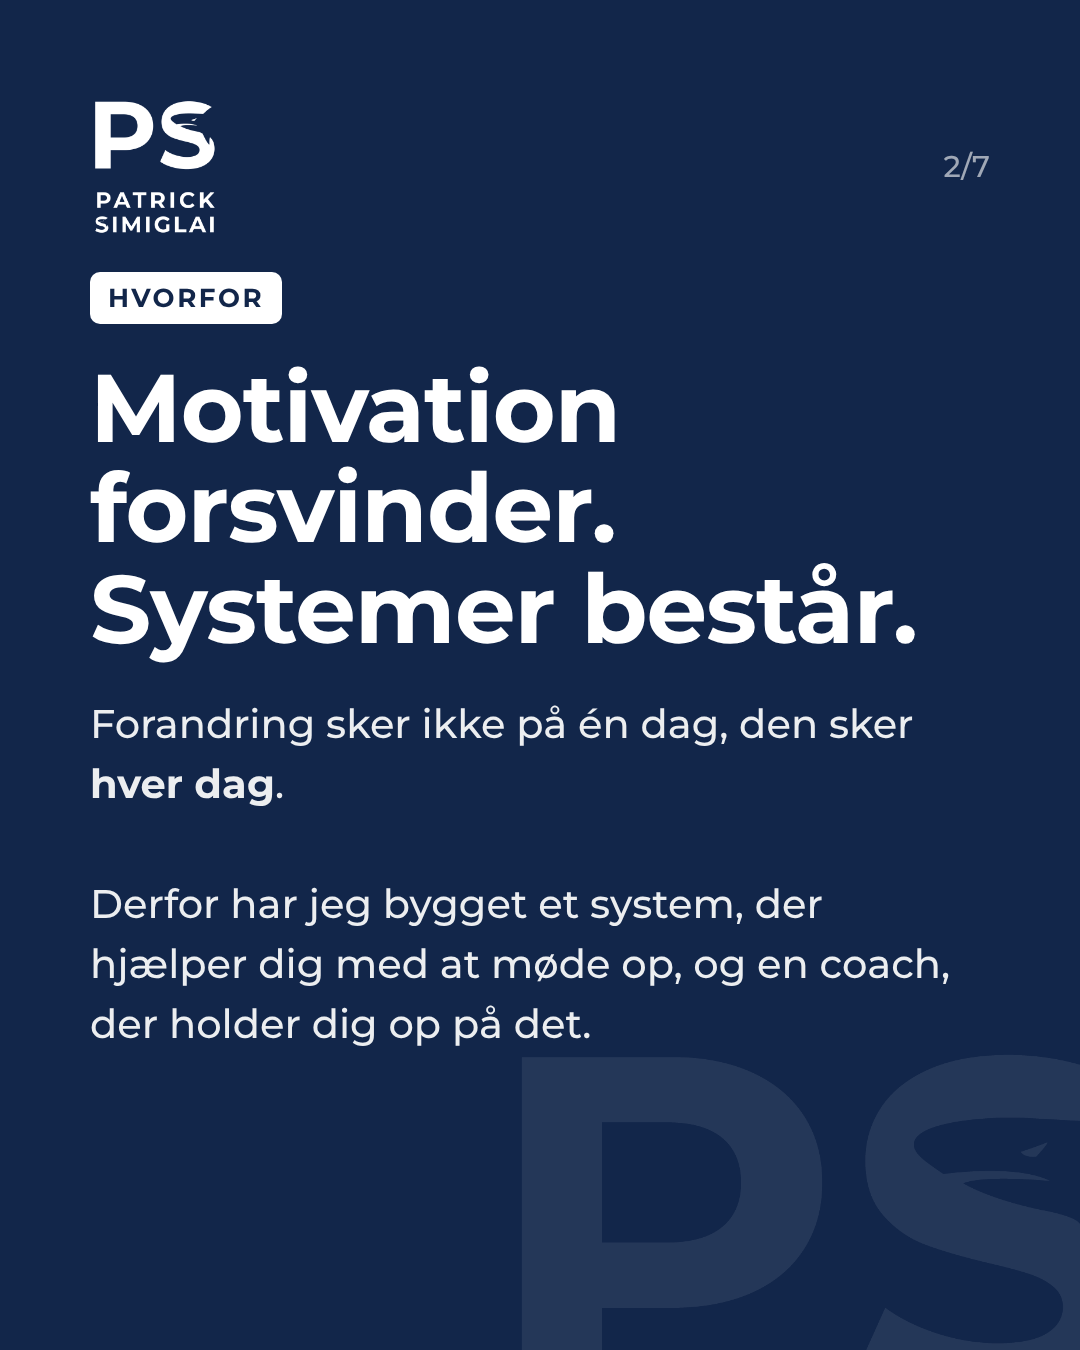
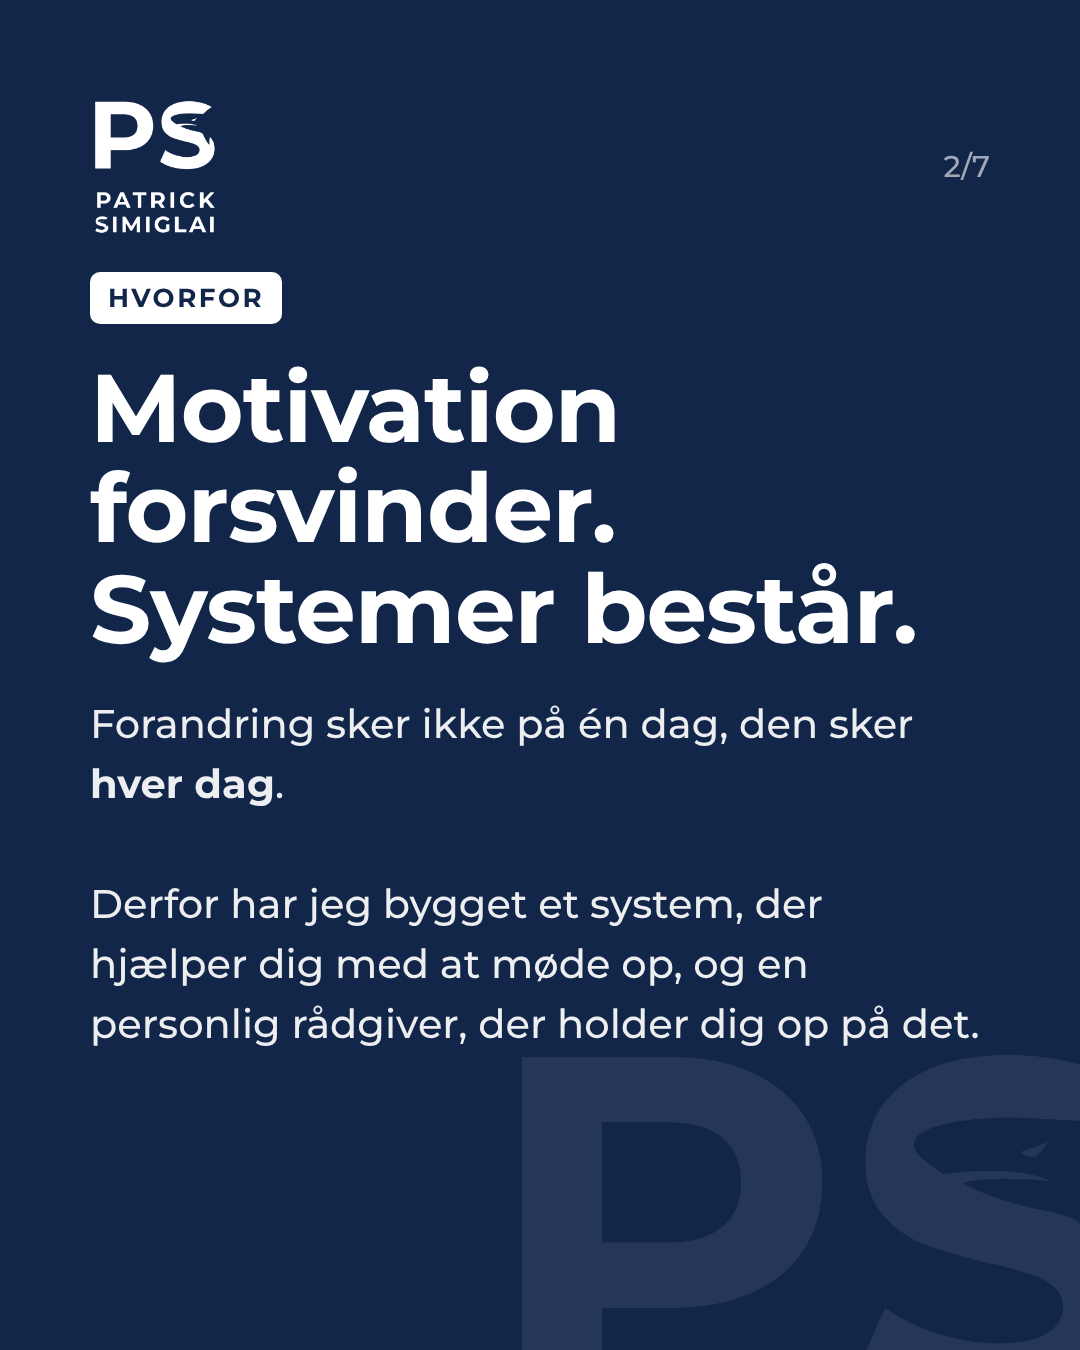
Launch slide 2: personlig rådgiver instead of coach
Claude-Session: https://claude.ai/code/session_01MtznJiQsn6TfRTKYdcmM83

Changed region(s): [[0.1528, 0.6844, 0.9167, 0.7778], [0.0611, 0.7467, 0.1222, 0.7778]]

diff --git a/marketing/launch-content.md b/marketing/launch-content.md
@@ -29,7 +29,7 @@ I lang tid har jeg set det samme mønster: Vi starter med fuld fart — og efter
 
 Motivation forsvinder. Systemer består.
 
-Derfor har jeg bygget min egen coaching-app. Den giver dig et system, der får dig til at møde op hver dag — og en coach, der holder dig op på det. Mig.
+Derfor har jeg bygget min egen coaching-app. Den giver dig et system, der får dig til at møde op hver dag — og en personlig rådgiver, der holder dig op på det. Mig.
 
 📲 Hver dag i Team Simiglai:
 🌅 5 minutter om morgenen: formål, top 3 mål, mad, træning og én disciplin-udfordring
